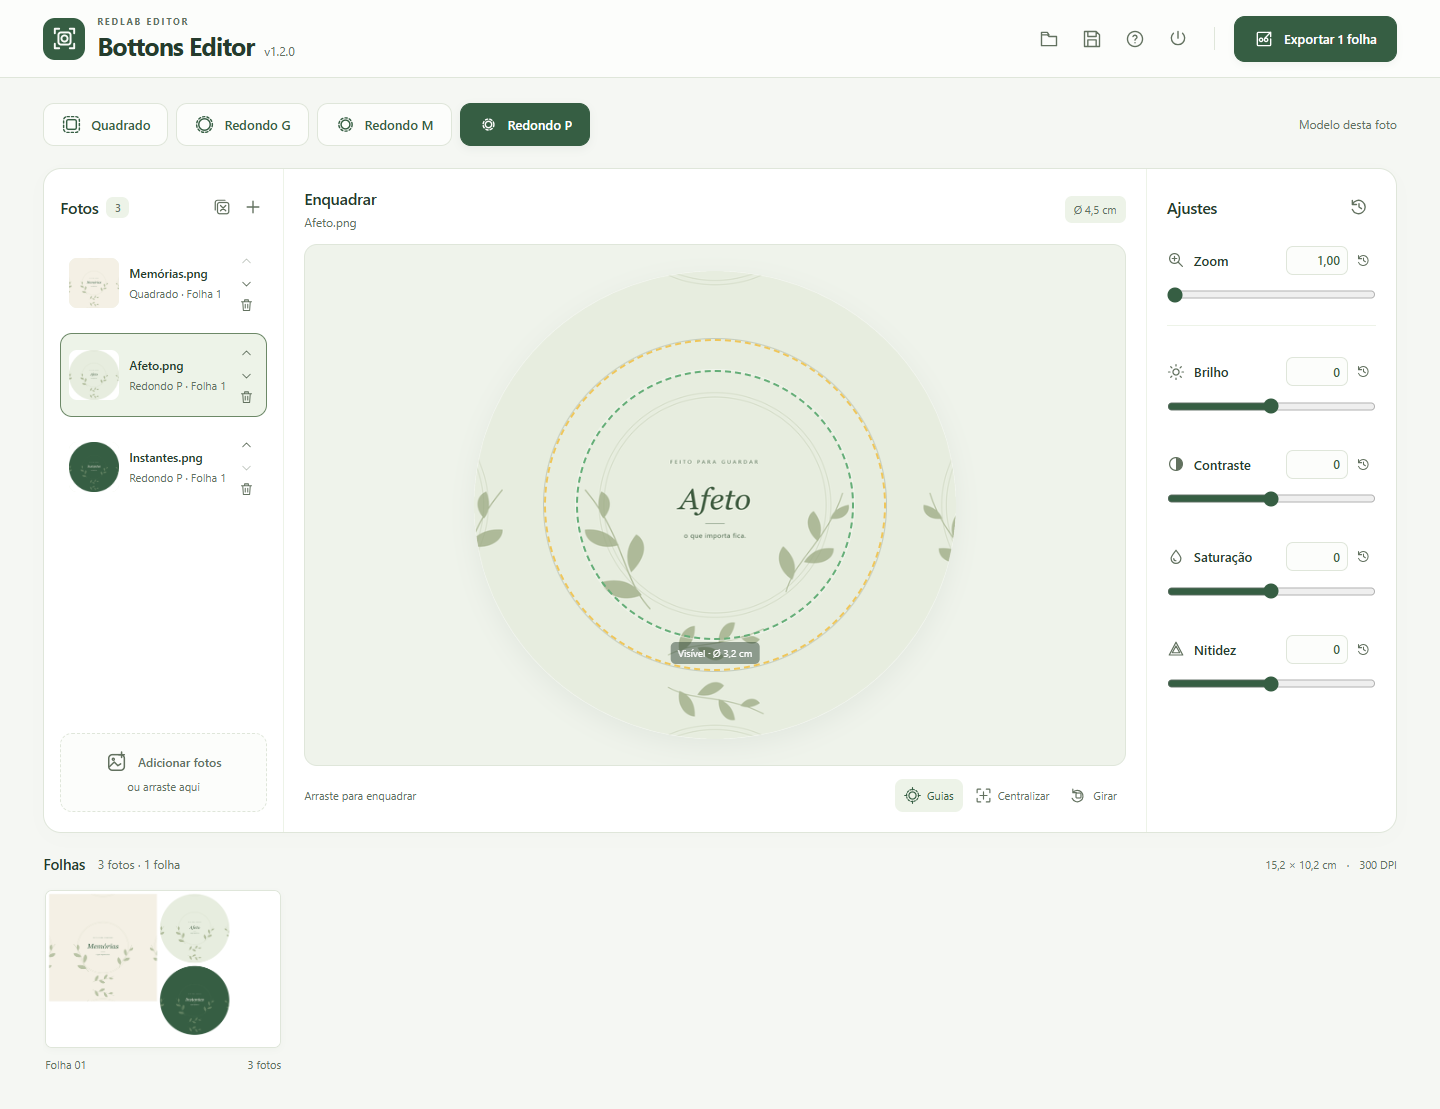
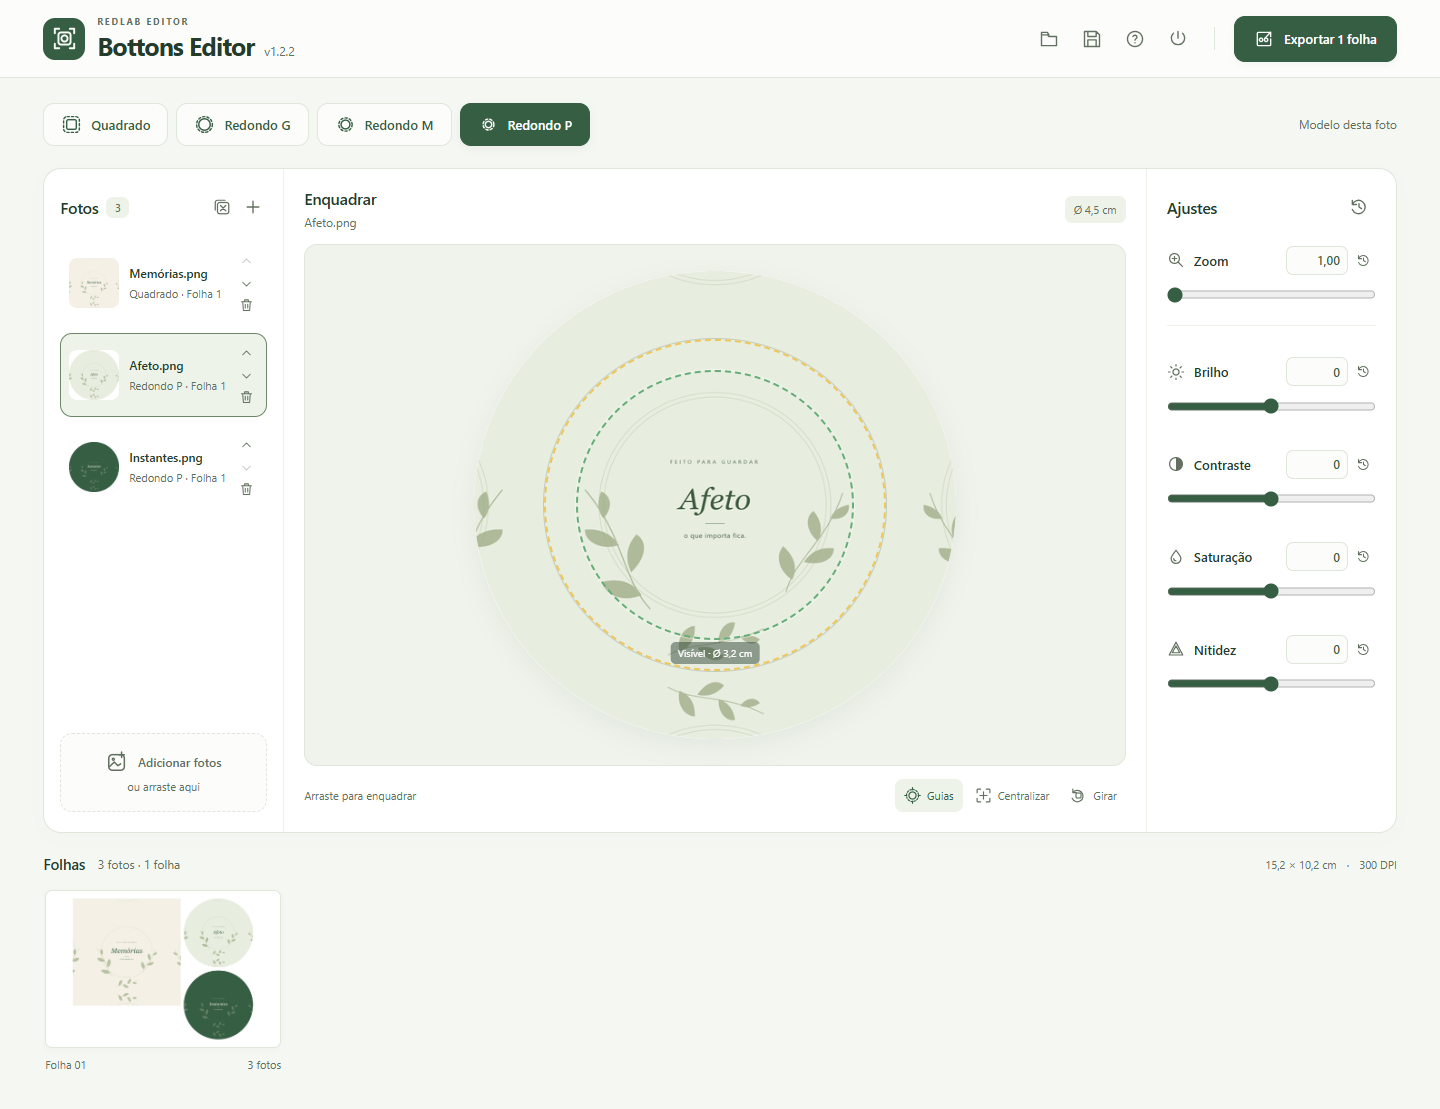
fix: centralizar bottons nas folhas mistas (#10)

Changed region(s): [[0.0312, 0.7971, 0.1875, 0.9504]]

diff --git a/apps/bottons-editor/tests/test_layout.py b/apps/bottons-editor/tests/test_layout.py
@@ -2,7 +2,7 @@ import itertools
 import random
 import unittest
 from engine import PAGE,TEMPLATES,page_positions,template_info
-from layout import plan_pages,GAP
+from layout import plan_pages,compose_sheet,GAP,MARGIN
 
 
 class LayoutTests(unittest.TestCase):
@@ -16,6 +16,12 @@ class LayoutTests(unittest.TestCase):
                 self.assertLessEqual(x+size,PAGE[0]);self.assertLessEqual(y+size,PAGE[1]);boxes.append((x,y,size))
             for i,(x,y,size) in enumerate(boxes):
                 for xx,yy,ss in boxes[i+1:]:self.assertTrue(x+size<=xx or xx+ss<=x or y+size<=yy or yy+ss<=y)
+            left=min(x for x,y,size in boxes);right=PAGE[0]-max(x+size for x,y,size in boxes)
+            top=min(y for x,y,size in boxes);bottom=PAGE[1]-max(y+size for x,y,size in boxes)
+            self.assertLessEqual(abs(left-right),1)
+            self.assertLessEqual(abs(top-bottom),1)
+            if len({keys[index] for index in page['indices']})>1:
+                self.assertGreaterEqual(min(left,right,top,bottom),MARGIN)
             # A page preview/download, planned from its own items, has identical geometry.
             subset=plan_pages([items[i] for i in page['indices']])
             self.assertEqual(len(subset),1);self.assertEqual(subset[0]['positions'],page['positions'])
@@ -40,6 +46,31 @@ class LayoutTests(unittest.TestCase):
                 pages=self.check_plan(keys);self.assertEqual(pages,plan_pages([dict(template=k) for k in keys]))
         rng=random.Random(220)
         for _ in range(100):self.check_plan(rng.choices(list(TEMPLATES),k=100))
+
+    def test_mixed_pages_from_report_are_centered_without_changing_capacity(self):
+        keys=['round_g','square','round_m','round_p']
+        pages=self.check_plan(keys)
+        self.assertEqual([page['indices'] for page in pages],[[0,1],[2,3]])
+        for page in pages:
+            first,second=page['indices'];(x,y),(xx,yy)=page['positions']
+            self.assertEqual(xx-x-template_info(keys[first])['cut_px'],GAP)
+            self.assertEqual(y,yy)
+
+    def test_rendered_mixed_sheet_has_symmetric_margins_and_original_tile_sizes(self):
+        from PIL import Image,ImageChops
+        keys=['square','round_p','round_p']
+        page=self.check_plan(keys)[0]
+        colors=['red','green','blue']
+        tiles=[Image.new('RGB',(template_info(key)['cut_px'],)*2,color) for key,color in zip(keys,colors)]
+        try:
+            with compose_sheet(tiles,page['positions']) as sheet,Image.new('RGB',PAGE,'white') as white:
+                left,top,right,bottom=ImageChops.difference(sheet,white).getbbox()
+                self.assertLessEqual(abs(left-(PAGE[0]-right)),1)
+                self.assertLessEqual(abs(top-(PAGE[1]-bottom)),1)
+                for tile,(x,y) in zip(tiles,page['positions']):
+                    self.assertEqual(sheet.crop((x,y,x+tile.width,y+tile.height)).tobytes(),tile.tobytes())
+        finally:
+            for tile in tiles:tile.close()
 
     def test_invalid_models_and_empty_batch_are_rejected(self):
         for items in ([],[dict(template='invalid')],[None],[{}]*101):

diff --git a/apps/bottons-editor/layout.py b/apps/bottons-editor/layout.py
@@ -1,7 +1,8 @@
 """Deterministic sheet planning; all bounds include the complete cut/bleed.
 
 Homogeneous batches retain the approved legacy layout. Mixed batches use
-conservative square bounds for circles, a 2 mm gap and 2 mm outer clearance.
+conservative square bounds for circles and a 2 mm gap, then center the complete
+group on each sheet while keeping at least 2 mm outer clearance.
 """
 from engine import DPI, PAGE, page_positions, template_info
 
@@ -55,7 +56,17 @@ def plan_pages(items, default='square'):
         positions=dict(zip(page['indices'],page['positions']));indices=sorted(page['indices'])
         if len({keys[i] for i in indices})==1:
             points=page_positions(len(indices),keys[indices[0]])
-        else:points=[positions[i] for i in indices]
+        else:
+            # Translate the complete packed group; never resize tiles or change
+            # their relative spacing. Exclude the packer's trailing gap from
+            # the bounds so the actual cut areas have balanced outer margins.
+            left=min(positions[i][0] for i in indices)
+            top=min(positions[i][1] for i in indices)
+            right=max(positions[i][0]+specs[i]['cut_px'] for i in indices)
+            bottom=max(positions[i][1]+specs[i]['cut_px'] for i in indices)
+            dx=(PAGE[0]-(right-left))//2-left
+            dy=(PAGE[1]-(bottom-top))//2-top
+            points=[(positions[i][0]+dx,positions[i][1]+dy) for i in indices]
         result.append(dict(indices=indices,positions=points))
     return result
 

diff --git a/apps/bottons-editor/tests/test_api.py b/apps/bottons-editor/tests/test_api.py
@@ -138,6 +138,17 @@ class ApiTests(unittest.TestCase):
             items.append(dict(id=photo['id'],template=key,edits={}))
         with self.request('layout',dict(items=items)) as response:plan=json.load(response)['pages']
         self.assertEqual(len(plan),1)
+        # The lossless preview must show the same centered group as production.
+        from engine import PAGE,template_info
+        from PIL import ImageChops
+        bounds=(min(x for x,y in plan[0]['positions']),min(y for x,y in plan[0]['positions']),
+                max(x+template_info(items[i]['template'])['cut_px'] for i,(x,y) in zip(plan[0]['indices'],plan[0]['positions'])),
+                max(y+template_info(items[i]['template'])['cut_px'] for i,(x,y) in zip(plan[0]['indices'],plan[0]['positions'])))
+        with self.request('sheet',dict(items=items)) as response:
+            with Image.open(io.BytesIO(response.read())) as preview,Image.new('RGB',preview.size,'white') as white:
+                actual=ImageChops.difference(preview,white).getbbox()
+                expected=[value*preview.size[axis%2]/PAGE[axis%2] for axis,value in enumerate(bounds)]
+                for value,target in zip(actual,expected):self.assertLessEqual(abs(value-target),3)
         with self.request('export',dict(items=items)) as response:
             image=Image.open(io.BytesIO(response.read()));image.load()
             self.assertEqual(image.size,(1795,1205));self.assertEqual(image.info['dpi'],(300,300))

diff --git a/apps/bottons-editor/version.py b/apps/bottons-editor/version.py
@@ -1,5 +1,5 @@
 """Single version source for the application, installer and releases."""
-VERSION = "1.2.1"
+VERSION = "1.2.2"
 REPOSITORY = "redlab-coder/redlab-editor"
 PORTABLE_NAMESPACE = 'BottonsEditor-Portable'
 INSTALLED_MUTEX = 'Local\\BottonsEditor.Installed.Running'

diff --git a/README.md b/README.md
@@ -2,15 +2,15 @@
 
 Três ferramentas para preparar imagens para impressão. Instale a família completa em um único download ou escolha seu editor.
 
-<p align="center"><a href="https://github.com/redlab-coder/redlab-editor/releases/download/redlab-v1.0.0/RedlabEditor-Setup-1.0.0.exe"><img src="docs/images/download-complete.svg" alt="Baixar pacote completo RedLab Editor para Windows" width="292" height="56"></a><br><sub>Windows 10 e 11 · 64 bits · Sem administrador · Instalação offline</sub></p>
+<p align="center"><a href="https://github.com/redlab-coder/redlab-editor/releases/download/redlab-v1.0.1/RedlabEditor-Setup-1.0.1.exe"><img src="docs/images/download-complete.svg" alt="Baixar pacote completo RedLab Editor para Windows" width="292" height="56"></a><br><sub>Windows 10 e 11 · 64 bits · Sem administrador · Instalação offline</sub></p>
 
-O pacote inclui **Bottons 1.2.1**, **Polaroid 1.2.1** e **Medidas 1.1.1**. Os três vêm selecionados; você pode escolher apenas os que precisa. As ferramentas ficam na pasta RedLab Editor do menu Iniciar e continuam recebendo atualizações individuais. [Instalação do pacote](docs/package.md).
+O pacote inclui **Bottons 1.2.2**, **Polaroid 1.2.1** e **Medidas 1.1.1**. Os três vêm selecionados; você pode escolher apenas os que precisa. As ferramentas ficam na pasta RedLab Editor do menu Iniciar e continuam recebendo atualizações individuais. [Instalação do pacote](docs/package.md).
 
 ### Downloads individuais
 
 | Ferramenta | Para que serve | Windows 10 e 11 · 64 bits |
 | --- | --- | --- |
-| **Bottons Editor** | Modelos por imagem e montagem de folhas com bottons. | [Instalador](https://github.com/redlab-coder/redlab-editor/releases/download/bottons-v1.2.1/BottonsEditor-Setup-1.2.1.exe) · [Portátil](https://github.com/redlab-coder/redlab-editor/releases/download/bottons-v1.2.1/BottonsEditor-Portable.exe) |
+| **Bottons Editor** | Modelos por imagem e montagem de folhas com bottons. | [Instalador](https://github.com/redlab-coder/redlab-editor/releases/download/bottons-v1.2.2/BottonsEditor-Setup-1.2.2.exe) · [Portátil](https://github.com/redlab-coder/redlab-editor/releases/download/bottons-v1.2.2/BottonsEditor-Portable.exe) |
 | **Polaroid Editor** | Enquadramento, conferência e montagem de polaroids. | [Instalador](https://github.com/redlab-coder/redlab-editor/releases/download/polaroid-v1.2.1/PolaroidEditor-Setup-1.2.1.exe) · [Portátil](https://github.com/redlab-coder/redlab-editor/releases/download/polaroid-v1.2.1/PolaroidEditor-Portable.exe) |
 | **Medidas Editor** | Fotos em medidas personalizadas na folha comercial compatível. | [Instalador](https://github.com/redlab-coder/redlab-editor/releases/download/medidas-v1.1.1/MedidasEditor-Setup-1.1.1.exe) · [Portátil](https://github.com/redlab-coder/redlab-editor/releases/download/medidas-v1.1.1/MedidasEditor-Portable.exe) |
 
@@ -18,7 +18,7 @@ A edição funciona localmente, sem conta. Os originais são preservados e as fo
 
 ## Bottons Editor
 
-Escolha Quadrado ou Redondo G, M e P **por foto**. Modelos diferentes podem dividir uma folha quando houver encaixe seguro, preservando medidas e sangria. Salve o trabalho em `.bottons` ou exporte as folhas em JPG a 300 dpi, reunidas em ZIP quando necessário. O fluxo continua sem conferência de fotos.
+Escolha Quadrado ou Redondo G, M e P **por foto**. Modelos diferentes podem dividir uma folha quando houver encaixe seguro, preservando medidas e sangria, com o conjunto centralizado na folha. Salve o trabalho em `.bottons` ou exporte as folhas em JPG a 300 dpi, reunidas em ZIP quando necessário. O fluxo continua sem conferência de fotos.
 
 ![Bottons Editor — modelos individuais e folha mista](apps/bottons-editor/docs/images/workspace.png)
 

diff --git a/docs/maintenance.md b/docs/maintenance.md
@@ -2,7 +2,7 @@
 
 | Aplicativo | Pasta | Tag | Canal |
 | --- | --- | --- | --- |
-| Bottons Editor | `apps/bottons-editor` | `bottons-v1.2.1` | `updates/bottons-editor.json` |
+| Bottons Editor | `apps/bottons-editor` | `bottons-v1.2.2` | `updates/bottons-editor.json` |
 | Polaroid Editor | `apps/polaroid-editor` | `polaroid-v1.2.1` | `updates/polaroid-editor.json` |
 | Medidas Editor | `apps/medidas-editor` | `medidas-v1.1.1` | `updates/medidas-editor.json` |
 
@@ -14,7 +14,7 @@ Se uma publicação falhar, examine o workflow e a release antes de retomar. Uma
 
 ## Pacote completo
 
-`bundle/package.json` fixa a versão do conjunto e a versão de cada editor incluído. O pacote 1.0.0 usa a tag `redlab-v1.0.0`. Ele não tem `update.json`, canal próprio, aplicativo residente ou desinstalador coletivo: distribui os três instaladores independentes. O Latest global passa a destacar o pacote, enquanto cada editor continua consultando seu canal explícito.
+`bundle/package.json` fixa a versão do conjunto e a versão de cada editor incluído. O pacote 1.0.1 usa a tag `redlab-v1.0.1`. Ele não tem `update.json`, canal próprio, aplicativo residente ou desinstalador coletivo: distribui os três instaladores independentes. O Latest global passa a destacar o pacote, enquanto cada editor continua consultando seu canal explícito.
 
 1. Para uma nova composição, atualize a versão do pacote, seus produtos, notas e links. As versões fixadas podem ser diferentes das versões atuais do código; não é preciso republicar o pacote a cada atualização individual.
 2. O PR do pacote compila os editores do mesmo código e exercita o conjunto em Windows descartável. Para esse caminho, o código de cada produto deve corresponder à versão fixada.

diff --git a/apps/bottons-editor/docs/templates.md b/apps/bottons-editor/docs/templates.md
@@ -19,6 +19,8 @@ As folhas têm 15,2 × 10,2 cm, na horizontal. Em lotes com um único modelo, a 
 
 Em lotes mistos, o planejador distribui primeiro os cortes maiores, com desempate pela ordem da lista. O corte completo (com sangria) é considerado; círculos usam seus quadrados delimitadores para uma separação conservadora. Folhas mistas mantêm pelo menos 2 mm entre esses limites e na borda externa. Nenhum gabarito é reduzido ou deformado; os itens restantes seguem para outras folhas. A ordem na lista é preservada no lote, mas a posição na folha pode mudar para aproveitar espaço. O algoritmo é determinístico e não promete o menor número matematicamente possível de folhas.
 
+Nas folhas mistas, o conjunto completo fica centralizado na horizontal e na vertical, considerando os limites de corte e sangria. A centralização apenas desloca o conjunto: os tamanhos e as distâncias entre as peças não mudam. As margens opostas podem diferir em no máximo 1 pixel por arredondamento.
+
 Um quadrado (7 × 7 cm de corte) e dois P (Ø 4,5 cm de corte) cabem juntos em uma folha. Prévia, exportação completa e download de uma folha usam a mesma lógica de posicionamento.
 
 JPG único quando o lote cabe em uma folha; ZIP com JPGs quando precisa de mais folhas. Exemplos: 6 fotos P geram um JPG; 7 fotos P geram dois JPGs em ZIP. A seleção do modelo é recuperada com a sessão no mesmo navegador/perfil.

diff --git a/apps/bottons-editor/docs/usage.md b/apps/bottons-editor/docs/usage.md
@@ -1,6 +1,6 @@
 # Usar o Bottons Editor
 
-Baixe o `BottonsEditor-Setup-<versão>.exe` na página de [versões oficiais](https://github.com/redlab-coder/redlab-editor/releases/tag/bottons-v1.2.1) e execute o instalador. A instalação é por usuário, com atalho no menu Iniciar e desinstalação pelas configurações do Windows. A interface abre no navegador padrão e o ícone fica na bandeja, ao lado do relógio. Não precisa instalar Python ou conectar uma conta. A edição e a exportação funcionam offline. Windows 10/11 de 64 bits.
+Baixe o `BottonsEditor-Setup-<versão>.exe` na página de [versões oficiais](https://github.com/redlab-coder/redlab-editor/releases/tag/bottons-v1.2.2) e execute o instalador. A instalação é por usuário, com atalho no menu Iniciar e desinstalação pelas configurações do Windows. A interface abre no navegador padrão e o ícone fica na bandeja, ao lado do relógio. Não precisa instalar Python ou conectar uma conta. A edição e a exportação funcionam offline. Windows 10/11 de 64 bits.
 
 A versão instalada consulta atualizações ao iniciar e a cada 30 minutos, baixa e verifica o instalador. Quando estiver pronto, o cabeçalho oferece **Atualizar e reiniciar**, que guarda uma cópia local do lote e reabre o programa com o trabalho recuperado. Sem conexão, a edição continua disponível. [Funcionamento das atualizações](../../../docs/updates.md).
 

diff --git a/apps/bottons-editor/README.md b/apps/bottons-editor/README.md
@@ -1,8 +1,8 @@
 <p align="center"><img src="docs/images/banner.svg" alt="Bottons Editor — RedLab Editor" width="100%"></p>
 
-<p align="center"><a href="https://github.com/redlab-coder/redlab-editor/releases/download/bottons-v1.2.1/BottonsEditor-Setup-1.2.1.exe"><img src="docs/images/download.svg" alt="Baixar Bottons Editor para Windows" width="252" height="54"></a><br><sub>Windows 10 e 11 · 64 bits · Instalação sem administrador</sub></p>
+<p align="center"><a href="https://github.com/redlab-coder/redlab-editor/releases/download/bottons-v1.2.2/BottonsEditor-Setup-1.2.2.exe"><img src="docs/images/download.svg" alt="Baixar Bottons Editor para Windows" width="252" height="54"></a><br><sub>Windows 10 e 11 · 64 bits · Instalação sem administrador</sub></p>
 
-<p align="center"><a href="https://github.com/redlab-coder/redlab-editor/releases/tag/bottons-v1.2.1">Versão 1.2.1 e edição portátil</a> · <a href="docs/usage.md">Guia de uso</a> · <a href="../../docs/updates.md">Atualizações</a></p>
+<p align="center"><a href="https://github.com/redlab-coder/redlab-editor/releases/tag/bottons-v1.2.2">Versão 1.2.2 e edição portátil</a> · <a href="docs/usage.md">Guia de uso</a> · <a href="../../docs/updates.md">Atualizações</a></p>
 
 ![Interface atual do Bottons Editor com artes de demonstração](docs/images/workspace.png)
 

diff --git a/docs/package.md b/docs/package.md
@@ -1,16 +1,16 @@
 # Pacote completo RedLab Editor
 
-[Baixar para Windows](https://github.com/redlab-coder/redlab-editor/releases/download/redlab-v1.0.0/RedlabEditor-Setup-1.0.0.exe)
+[Baixar para Windows](https://github.com/redlab-coder/redlab-editor/releases/download/redlab-v1.0.1/RedlabEditor-Setup-1.0.1.exe)
 
 Um único instalador reúne Bottons Editor, Polaroid Editor e Medidas Editor. Depois do download, a instalação funciona sem internet. Requer Windows 10 ou 11 de 64 bits e não exige administrador.
 
 1. Salve seu trabalho e encerre os editores que serão instalados.
-2. Abra `RedlabEditor-Setup-1.0.0.exe`.
+2. Abra `RedlabEditor-Setup-1.0.1.exe`.
 3. Mantenha **Pacote completo** ou escolha as ferramentas desejadas.
 4. Escolha se deseja atalhos na área de trabalho e instale.
 5. Abra a ferramenta pela pasta **RedLab Editor** do menu Iniciar.
 
-O pacote 1.0.0 inclui Bottons 1.2.1, Polaroid 1.2.1 e Medidas 1.1.1. Também é possível baixar [cada editor separadamente](../README.md#downloads-individuais).
+O pacote 1.0.1 inclui Bottons 1.2.2, Polaroid 1.2.1 e Medidas 1.1.1. Também é possível baixar [cada editor separadamente](../README.md#downloads-individuais).
 
 ## Instalações existentes
 

diff --git a/apps/bottons-editor/RELEASE_NOTES.md b/apps/bottons-editor/RELEASE_NOTES.md
@@ -1,10 +1,11 @@
-# Bottons Editor 1.2.1
+# Bottons Editor 1.2.2
 
-Versão de manutenção para integrar o pacote completo RedLab Editor.
+As folhas que combinam modelos diferentes agora centralizam o conjunto de bottons na horizontal e na vertical, em vez de posicioná-lo no canto superior esquerdo.
 
-- Atalho na pasta **RedLab Editor** do menu Iniciar.
-- Remove o atalho antigo solto no menu Iniciar, mantendo o nome e o ícone da ferramenta.
-- Instalação, desinstalação e atualizações continuam independentes.
-- Projetos, ajustes e funções de edição e impressão preservados.
+- Prévia, folha ampliada e exportação usam o mesmo posicionamento.
+- O encaixe entre as peças, as medidas físicas, as sangrias e o espaçamento de segurança são preservados.
+- Folhas de um único modelo mantêm a disposição aprovada.
+- Lotes salvos passam a usar a composição centralizada ao serem abertos, sem alterar fotos ou enquadramentos.
+- Capturas da ferramenta atualizadas no repositório.
 
-Também pode ser instalado individualmente. Salve o lote e encerre o editor antes da instalação manual.
+Instale pelo canal próprio do Bottons Editor ou pelo pacote completo RedLab Editor 1.0.1.

diff --git a/docs/validation.md b/docs/validation.md
@@ -1,5 +1,12 @@
 # Validação da integração
 
+## Centralização do Bottons Editor 1.2.2
+
+Os testes conferem margens opostas com diferença máxima de 1 pixel, tamanhos de corte, segurança das bordas e ausência de sobreposição. Incluem o exemplo com G e quadrado numa folha e M e P na seguinte, além do quadrado com dois P, combinações exaustivas e lotes aleatórios. A renderização é validada antes da codificação e a prévia pela API, junto à exportação e à reabertura de projetos.
+
+As folhas de modelo único mantêm todas as posições anteriores. A alteração é uma translação do conjunto misto: não redimensiona, recorta ou reorganiza as peças dentro dele.
+
+
 ## Pacote completo 1.0.0
 
 O conjunto usa Bottons 1.2.1, Polaroid 1.2.1 e Medidas 1.1.1, com o mesmo motor de impressão das versões anteriores. Os contratos da raiz incluem a composição fixa, origem e integridade dos componentes, identidade instalada e atalhos da família.
